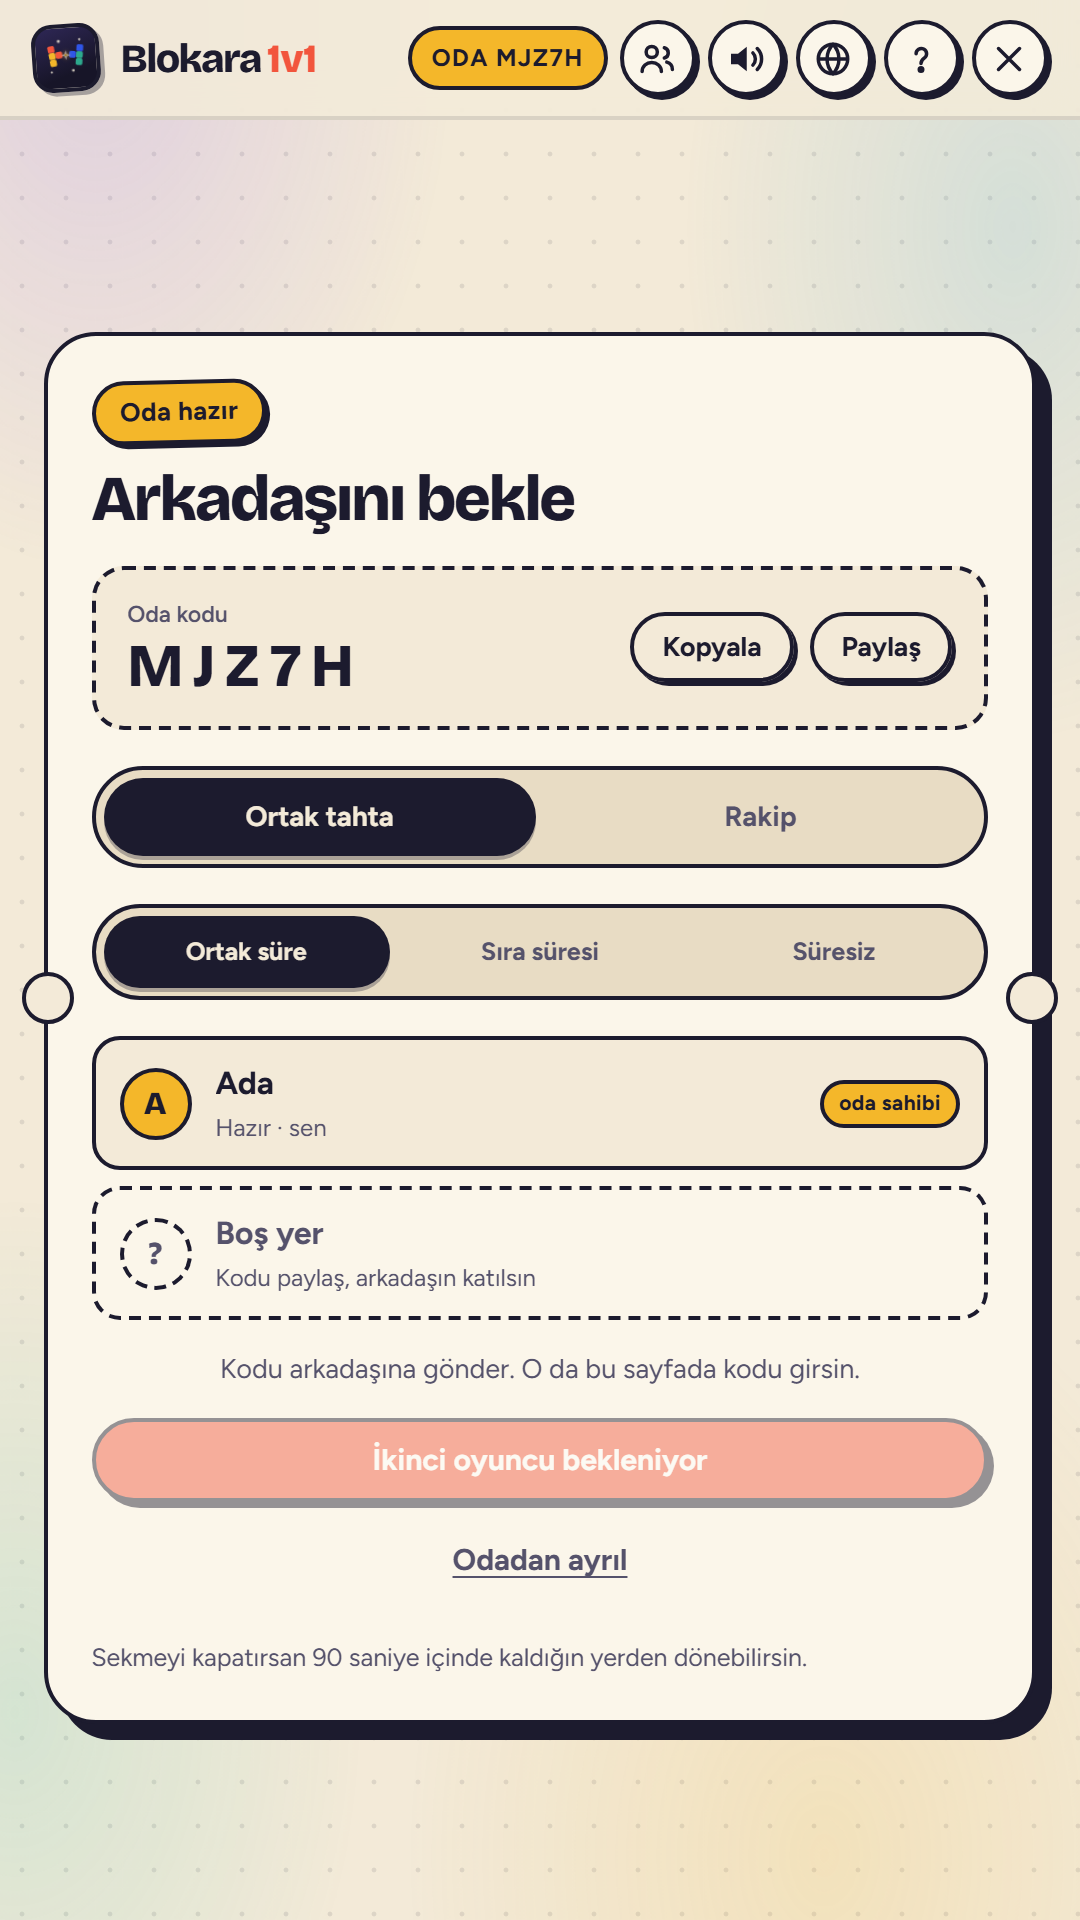
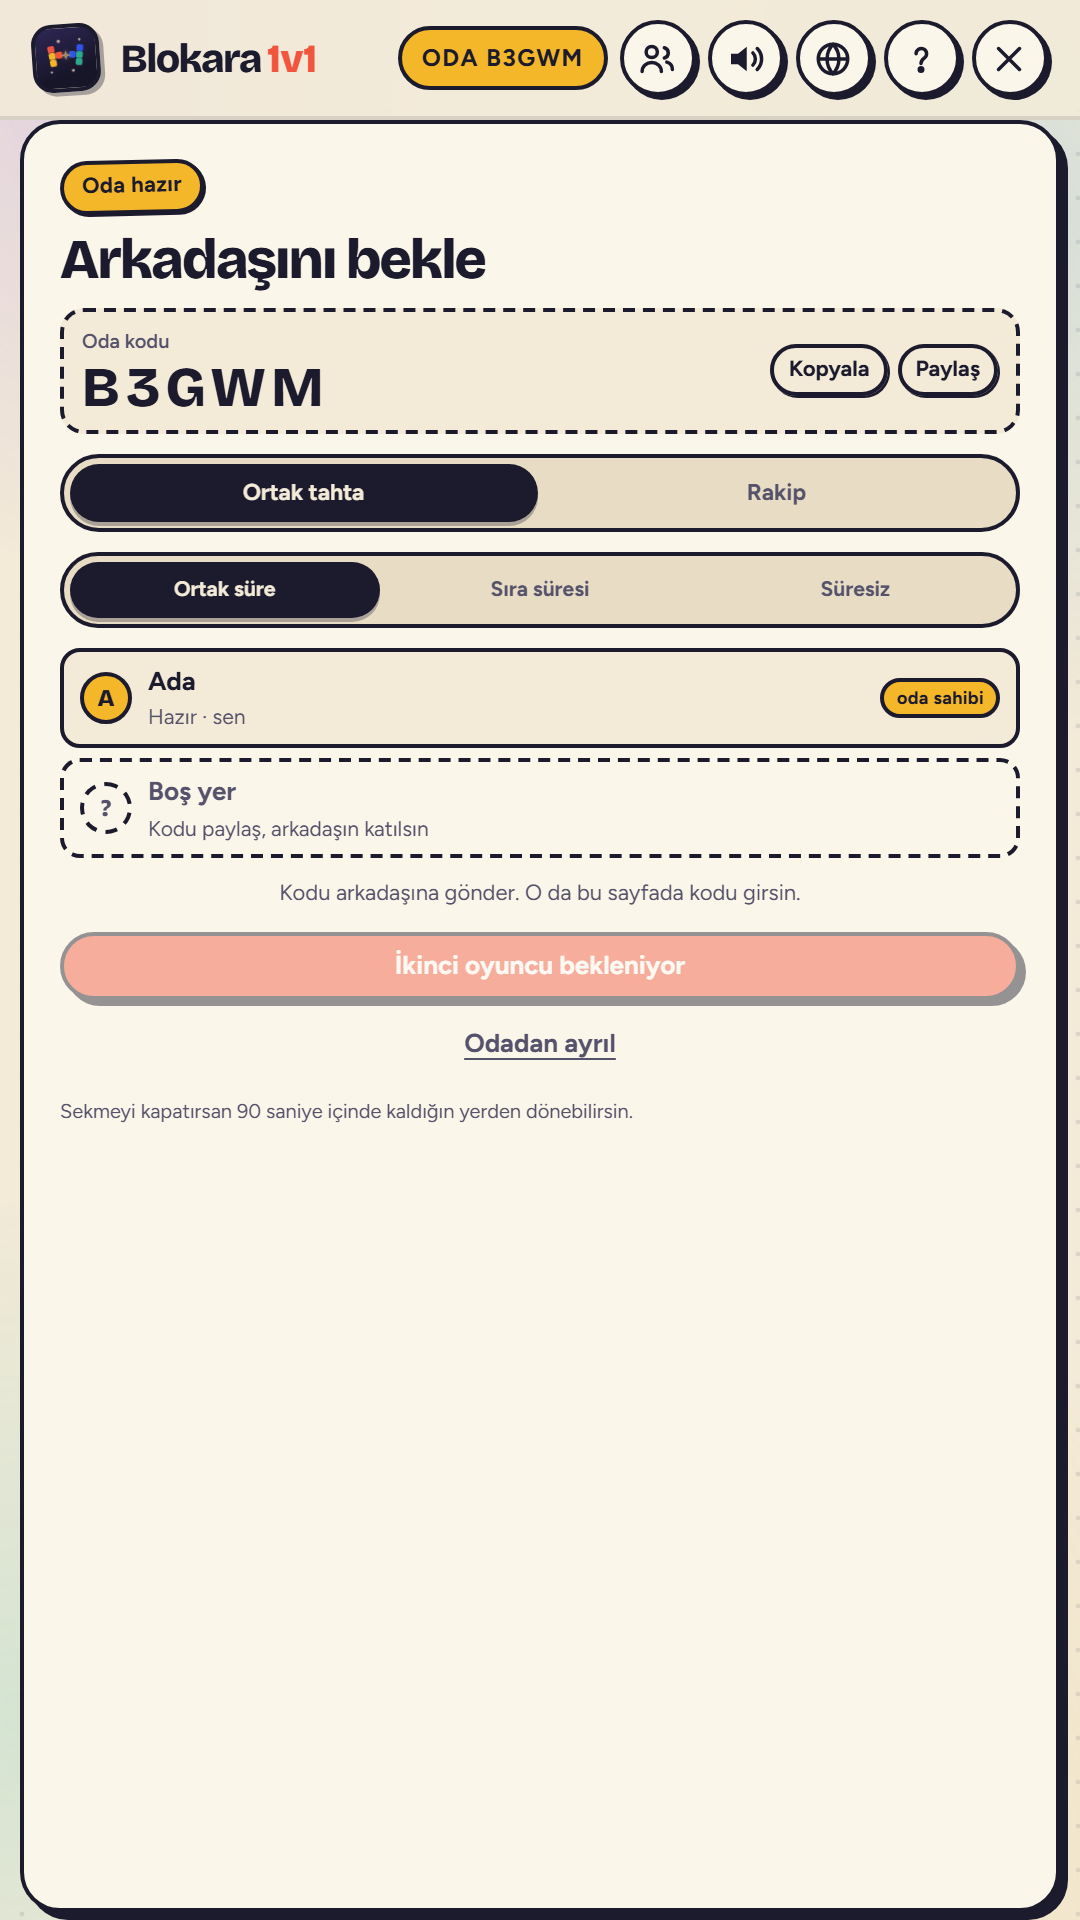
Blokara 2.0.7: paylasilan oda baglantisi uygulamada sunucu adresini kullanir

diff --git a/blockblast/public/app.js b/blockblast/public/app.js
@@ -63,11 +63,9 @@
     backgrounded: false,
     friendCode: "",
     friends: [],
-    friendLookup: {},
-    pendingFriendAdd: "",
     pendingInvite: null,
     friendsTimer: null,
-    friendLookupSeq: 0,
+    friendsConnectBusy: false,
     inviteAfterCreate: "",
     interstitialPending: false,
     daily: false,
@@ -1346,6 +1344,9 @@
       app.heartbeat = null;
     }
     app.pending = false;
+    /* Bağlantı koptuysa bekleyen davet gönderilemez; eski davet başka bir
+       odanın karşılama mesajıyla yanlışlıkla çıkmasın. */
+    app.inviteAfterCreate = "";
     if (app.matching) {
       app.matching = false;
       updateMatchButton();
@@ -1357,6 +1358,9 @@
         scheduleReconnect();
       }
     }
+    /* Arkadaş listesi açıksa çevrimiçi durumu kaybolmasın: sessizce
+       yeniden bağlanmayı dene. */
+    if (!$("#overlay").hidden && $("#friend-list")) refreshFriendsOnline();
   }
 
   function scheduleReconnect() {
@@ -3841,7 +3845,7 @@
   }
 
   function createRoom(mode) {
-    if (app.busy) return;
+    if (app.busy) return false;
     app.busy = true;
     var name = playerName();
     ensureSocket().then(function () {
@@ -3849,10 +3853,13 @@
       setTimeout(function () { app.busy = false; }, 500);
     }).catch(function (error) {
       app.busy = false;
+      /* Oda kurulamazsa bekleyen davet artık gönderilemez: kalmasın. */
+      app.inviteAfterCreate = "";
       var message = error.message || "Sunucuya bağlanılamadı.";
       if (/sunucu/i.test(message)) askServer(message);
       else toast(message);
     });
+    return true;
   }
 
   function joinRoom(code) {
@@ -3932,9 +3939,11 @@
   /* ------------------------------------------------------------------ */
 
   var FRIEND_CHARS = "ABCDEFGHJKLMNPQRSTUVWXYZ23456789";
+  var MAX_FRIENDS = 50;
 
-  /* Cihazda kalıcı arkadaş kodu; hesap gerekmez. Aynı tarayıcıda açılan
-     sekmeler aynı kaydı paylaşsa da her oturum kendi kodunu korur. */
+  /* Cihazda kalıcı arkadaş kodu; hesap gerekmez. Aynı tarayıcıdaki
+     sekmeler aynı kodu paylaşır; sunucuda en son bağlanan sekme
+     davetleri alır. */
   function friendCode() {
     if (app.friendCode && /^[A-Z0-9]{4,10}$/.test(app.friendCode)) return app.friendCode;
     var code = read(LS_FRIEND_CODE);
@@ -3996,11 +4005,14 @@
   }
 
   function addFriend(code, name) {
-    var key = friendKey(code);
-    if (!key || key.length < 4) {
+    var raw = String(code || "").toUpperCase().replace(/[^A-Z0-9]/g, "");
+    /* Uzun girdiyi sessizce kısaltmak yanlış kod ekler: sınırı aşan
+       girdi tamamen reddedilir. */
+    if (!raw || raw.length < 4 || raw.length > 10) {
       toast("Arkadaş kodu 4-10 karakter olmalı.");
       return false;
     }
+    var key = raw;
     if (key === friendCode()) {
       toast("Bu senin kendi kodun.");
       return false;
@@ -4011,6 +4023,10 @@
       saveFriends();
       toast("Arkadaş listende zaten var.");
       return true;
+    }
+    if (app.friends.length >= MAX_FRIENDS) {
+      toast("Arkadaş listesi dolu. Bir arkadaşını kaldır.");
+      return false;
     }
     app.friends.push({ code: key, name: name || "" });
     saveFriends();
@@ -4032,6 +4048,18 @@
     if (!app.ws || app.ws.readyState !== WebSocket.OPEN) {
       app.friends.forEach(function (item) { item.online = false; });
       renderFriendsSheet();
+      /* Liste açıkken bağlantı koptuysa sessizce yeniden dene; bağlanınca
+         durum yenilenir. Aynı anda tek deneme yeter. */
+      if (!app.friendsConnectBusy) {
+        app.friendsConnectBusy = true;
+        ensureSocket({ quiet: true }).then(function () {
+          app.friendsConnectBusy = false;
+          syncPresence();
+          refreshFriendsOnline();
+        }).catch(function () {
+          app.friendsConnectBusy = false;
+        });
+      }
       return;
     }
     app.friends.forEach(function (item) {
@@ -4063,6 +4091,7 @@
   function showFriends() {
     if (!app.friends.length) loadFriends();
     openOverlay(friendsSheetHTML(), true);
+    /* refreshFriendsOnline, bağlantı yoksa kendisi sessizce kurar. */
     refreshFriendsOnline();
     if (app.friendsTimer) clearInterval(app.friendsTimer);
     app.friendsTimer = setInterval(function () {
@@ -4073,12 +4102,6 @@
       }
       refreshFriendsOnline();
     }, 15000);
-    if (!app.ws || app.ws.readyState !== WebSocket.OPEN) {
-      ensureSocket({ quiet: true }).then(function () {
-        syncPresence();
-        refreshFriendsOnline();
-      }).catch(function () { /* sunucu yoksa yerel liste yeter */ });
-    }
     var form = $("#friend-add-form");
     if (form) {
       form.addEventListener("submit", function (event) {
@@ -4152,19 +4175,26 @@
   }
 
   function addFriendFromSheet(input) {
-    var code = friendKey(input);
-    if (code.length < 4) {
+    var raw = String(input || "").toUpperCase().replace(/[^A-Z0-9]/g, "");
+    if (!raw || raw.length < 4 || raw.length > 10) {
       toast("Arkadaş kodu 4-10 karakter olmalı.");
       return;
     }
-    if (code === friendCode()) {
+    if (raw === friendCode()) {
       toast("Bu senin kendi kodun.");
       return;
     }
-    app.pendingFriendAdd = code;
-    addFriend(code);
+    if (findFriend(raw)) {
+      toast("Arkadaş listende zaten var.");
+      var current = $("#friend-code-input");
+      if (current) current.value = "";
+      return;
+    }
+    /* Hata durumunda yalnızca hatanın tostu görünsün; başarısız ekleme
+       için "eklendi" mesajı gösterilmez. */
+    if (!addFriend(raw)) return;
     renderFriendsSheet();
-    lookupFriend(code);
+    lookupFriend(raw);
     toast("Arkadaş eklendi. Güncel adı alınıyor…");
     var field = $("#friend-code-input");
     if (field) field.value = "";
@@ -4186,11 +4216,28 @@
       send();
       return;
     }
-    /* Oda yoksa önce rakip odası kur, hoş geldin mesajında davet gönder. */
-    app.inviteAfterCreate = key;
-    closeOverlay();
-    toast("Oda kuruluyor, davet hemen ardından gidecek…");
-    createRoom("versus");
+    var createAndInvite = function () {
+      /* Oda yoksa önce rakip odası kur, hoş geldin mesajında davet gönder. */
+      app.inviteAfterCreate = key;
+      closeOverlay();
+      toast("Oda kuruluyor, davet hemen ardından gidecek…");
+      if (!createRoom("versus")) {
+        /* Oda kurulamadı: bayrak kalırsa sonraki odada yanlış davet gider. */
+        app.inviteAfterCreate = "";
+        toast("Şu an başka bir işlem sürüyor; biraz sonra tekrar dene.");
+      }
+    };
+    /* Oyun sürerken davet mevcut oyunu bitirir: önce onay al. */
+    if (app.screen === "game") {
+      showConfirm("Oyundan çıkılsın mı?",
+        app.online
+          ? "Odadan ayrılırsan arkadaşın devam edemez."
+          : "Bu turdaki skor kaybolur.",
+        "Çık",
+        createAndInvite);
+      return;
+    }
+    createAndInvite();
   }
 
   function showInviteBanner(message) {
@@ -4538,13 +4585,25 @@
     document.body.removeChild(area);
   }
 
+  /* Paylaşılabilir oda bağlantısı. Uygulama içinde adres file://… olur;
+     arkadaşın cihazında açılabilmesi için sunucu adresi kullanılır. */
+  function roomLink(code) {
+    var encoded = encodeURIComponent(code);
+    if (location.protocol !== "file:" && location.host) {
+      return location.origin + location.pathname + "?oda=" + encoded;
+    }
+    var base = serverBase();
+    if (base) return base + "/?oda=" + encoded;
+    return "?oda=" + encoded;
+  }
+
   /* "Paylaş": işletim sisteminin paylaşım menüsünü açar (WhatsApp, Telegram,
      mesajlar…). "Kopyala" düğmesi ise yalnızca kodu panoya yazar; ikisi aynı
      işi yapmaz. Paylaşım yolu yoksa son çare olarak bağlantı kopyalanır. */
   function shareRoom() {
     var code = $("#lobby-code").textContent.trim();
     if (!code || code === "-----") return;
-    var url = location.origin + location.pathname + "?oda=" + encodeURIComponent(code);
+    var url = roomLink(code);
     var lead = (window.BlokI18n && window.BlokI18n.t)
       ? window.BlokI18n.t("Blokara 1v1 oynayalım mı? Oda kodu:")
       : "Blokara 1v1 oynayalım mı? Oda kodu:";

diff --git a/blockblast/public/styles.css b/blockblast/public/styles.css
@@ -3431,7 +3431,7 @@ body {
     gap: clamp(4px, 1.1vh, 10px);
     border-radius: 20px;
     box-shadow: 4px 4px 0 var(--ink);
-    align-content: center;
+    align-content: start;
   }
   .lobby-card::before,
   .lobby-card::after { display: none; }
@@ -3470,14 +3470,15 @@ body {
   .sheet.help .help-list span { font-size: 11.5px; line-height: 1.3; }
 }
 @media (max-width: 720px) and (max-height: 640px) {
-  .sheet.help { padding: 10px 12px; }
+  .sheet.help { padding: 8px 11px; }
+  .sheet.help .result-badge { margin-bottom: 4px; padding: 2px 8px; font-size: 10px; }
   .sheet.help h2 { font-size: 19px; }
-  .sheet.help .sheet-sub { font-size: 11px; margin-bottom: 5px; }
-  .sheet.help .help-list { gap: 3px; margin-top: 4px; }
+  .sheet.help .sheet-sub { font-size: 11px; line-height: 1.28; margin-bottom: 3px; }
+  .sheet.help .help-list { gap: 2px; margin-top: 2px; }
   .sheet.help .help-list b { font-size: 12px; }
   .sheet.help .help-list span { font-size: 10.5px; line-height: 1.25; }
-  .sheet.help .sheet-actions { margin-top: 6px; }
-  .sheet.help .sheet-actions .btn { min-height: 32px; padding: 5px 10px; font-size: 13px; }
+  .sheet.help .sheet-actions { margin-top: 3px; }
+  .sheet.help .sheet-actions .btn { min-height: 30px; padding: 4px 10px; font-size: 12.5px; }
 }
 
 /* Dil listesi: telefonlarda üç sütun; kaydırma çubuğu görünmez. */
@@ -3492,6 +3493,6 @@ body {
   .lang-pick { min-height: 34px; padding: 5px 7px; font-size: 12px; }
 }
 @media (max-width: 340px) {
-  .sheet .lang-grid { grid-template-columns: repeat(2, minmax(0, 1fr)); }
-  .lang-pick { font-size: 11.5px; }
+  .sheet .lang-grid { grid-template-columns: repeat(3, minmax(0, 1fr)); gap: 4px; }
+  .lang-pick { font-size: 10.5px; padding: 4px 5px; min-height: 30px; line-height: 1.1; }
 }

diff --git a/blockblast/README.md b/blockblast/README.md
@@ -106,14 +106,18 @@ SHA-1, Play Console, veri güvenliği beyanı, mağaza görselleri) için
 arkadaş listesi açar:
 
 - Her oyuncunun 6 haneli bir **arkadaş kodu** vardır; kopyalanıp paylaşılabilir.
-- Arkadaş koduyla ekleme; liste çevrimiçi/çevrimdışı durumunu gösterir.
+- Arkadaş koduyla ekleme (en fazla 50 arkadaş); liste çevrimiçi/çevrimdışı durumunu gösterir.
 - Liste, arkadaşın **sunucudaki güncel adını** gösterir; arkadaş adını
   değiştirdiğinde ya da yeniden bağlandığında otomatik tazelenir. Çevrimdışıyken
   son bilinen ad korunur.
 - **Davet et**: oda varsa kod doğrudan gider; oda yoksa önce rakip odası kurulur.
+  Oyun sürerken davet göndermek istenirse önce onay sorulur.
 - Davet alan oyuncunun ekranında “Katıl” şeridi çıkar ve tek dokunuşla odaya girer.
+- Liste açıkken bağlantı koparsa istemci sessizce yeniden bağlanır.
 
 Durum bilgisi sunucuda yalnızca bellekte tutulur; hesap veya veritabanı gerekmez.
+Daveti yalnızca odanın gerçek oyuncusu gönderebilir; üst üste ve kısa arayla
+tekrarlanan davetler sunucuda engellenir.
 
 ## Güvenlik
 
@@ -124,6 +128,8 @@ Sunucu herkese açık çalışacak şekilde sertleştirildi:
 - WebSocket `Origin` doğrulaması (`file://` / APK ve aynı köken kabul, `ORIGINS` ile genişletilir);
 - IP başına ve toplam bağlantı sınırı, oda sayısı sınırı;
 - dakikada hatalı oda kodu denemesi sınırı;
+- davetler yalnızca odanın gerçek oyuncusundan gönderilebilir; davet spam'i
+  süreye bağlı olarak engellenir;
 - kimlik doğrulama gövdesi 16 KB ile sınırlı (413 ile reddedilir);
 - WebView’da dosya kaynakları arası erişim kapalı, yalnızca HTTPS/WSS.
 
